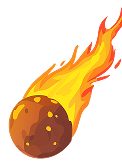
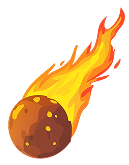
убрала обрезку метеора на десктопе

Changed region(s): [[0.0492, 0.0303, 1.0, 0.9697], [0.541, 0.4848, 0.5656, 0.5152]]

diff --git a/english_hex/src/pages/games/attackPlanet/PlanetAttackGame.vue b/english_hex/src/pages/games/attackPlanet/PlanetAttackGame.vue
@@ -1,5 +1,5 @@
 <template>
-    <div class="relative">
+    <div class="relative all">
         <img src="@/assets/img/Games/метеор_small.png" alt="meteor" class="meteor">
         <section class="page-container">
             
@@ -45,7 +45,7 @@
         align-items: center; 
         gap: 20px;
         width:100%;
-        max-width: 414px;
+      max-width: 414px;
         height: calc(100vh - 550px);
         max-height: 238px;
         background-color: #FFFFFF;
@@ -75,12 +75,14 @@
 
 .meteor {
     position: absolute;
-    right: 0px;
+    width:74px;
+    height:94px;
+    right: -4px;
     top: -25px; 
     z-index: 3000;
 }
 
-.image-sectionn_game{
+.image-section_game{
     position: relative;
     display: flex;
     flex-direction: column;
@@ -114,5 +116,10 @@
 .sound1 {
     width: 60px;
     height: auto;
+}
+@media (min-width: 415px) {
+    .all, .meteor, .layout {
+       overflow: visible; 
+    }
 }
 </style>

diff --git a/english_hex/src/pages/games/attackPlanet/PlanetAttack.vue b/english_hex/src/pages/games/attackPlanet/PlanetAttack.vue
@@ -31,7 +31,7 @@ const goToGamePage = () => {
 </script>
 <style scoped lang="scss">
 .page-container {
-    overflow: auto;
+    overflow: visible;
     display: flex;
     flex-direction: column;
     justify-content: space-between;
@@ -120,9 +120,9 @@ const goToGamePage = () => {
 
 .meteor {
     position: absolute;
-    right: -104px;
-    top: 50%; // Центрируем по вертикали
-    transform: translateY(-140%); // Сдвигаем на половину высоты изображения
+    right: -124px;
+    top: 50%; 
+    transform: translateY(-140%); 
 }
 
 .image-section{

diff --git a/english_hex/src/assets/styles/_globals.scss b/english_hex/src/assets/styles/_globals.scss
@@ -76,6 +76,12 @@ body, #app {
 	}
 }
 
+@media (min-width: 415px) {
+    .layout, body {
+       overflow: visible; 
+    }
+}
+
 .page-content {
 	overflow: hidden;
 	display: flex;

diff --git a/english_hex/src/layouts/MainLayout.vue b/english_hex/src/layouts/MainLayout.vue
@@ -25,4 +25,9 @@ body {
     align-items: center;
     min-height: 100vh;
 }
+@media (min-width: 415px) {
+    .layout {
+       overflow: visible; 
+    }
+}
 </style>
